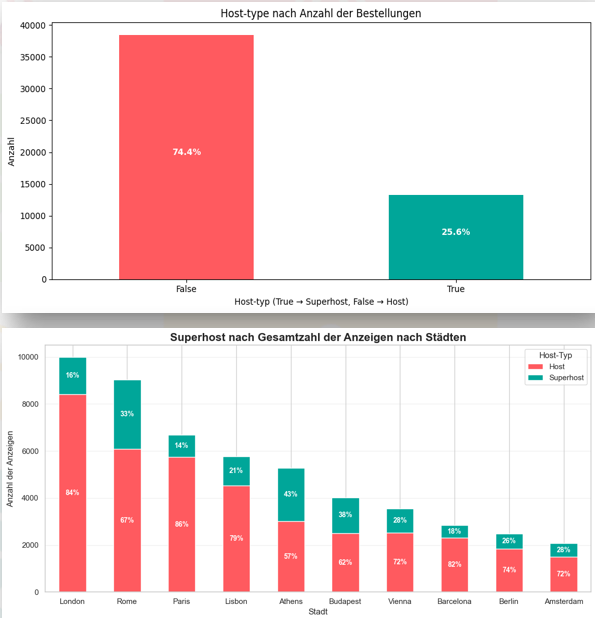
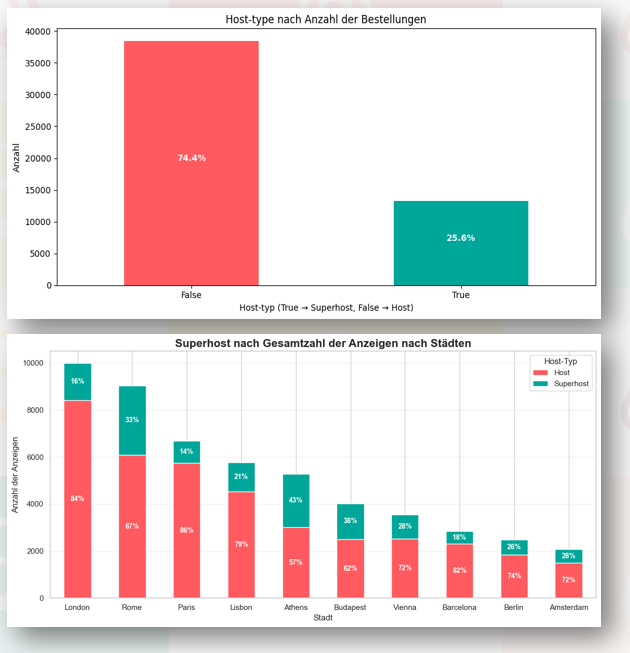
Update README with visualizations

Changed region(s): [[0.0, 0.0, 1.0, 1.0], [0.2723, 0.2152, 0.3328, 0.2767]]

diff --git a/README.md b/README.md
@@ -83,7 +83,13 @@ Vor der Analyse wurden die Daten bereinigt und vorbereitet:
 
 Analyse der Verteilung von Airbnb-Preisen sowie Identifikation von Ausreißern.
 
-![Preisverteilung](images/price_distribution_1.png)
+**Abbildung 1: Preisverteilung (Histogramm)**
+
+![Preisverteilung Histogramm](images/price_distribution_1.png)
+
+**Abbildung 2: Preisverteilung (Boxplot)**
+
+![Preisverteilung Boxplot](images/price_distribution_2.png)
 
 ---
 
@@ -99,7 +105,7 @@ Vergleich verschiedener Marktsegmente und Unterkunftsarten.
 
 Untersuchung des Zusammenhangs zwischen Unterkunftsgröße und Preisniveau.
 
-![Kapazitätsanalyse](images/capacity_analysis_1.png)
+![Kapazitätsanalyse](images/capacity_analysis.png)
 
 ---
 